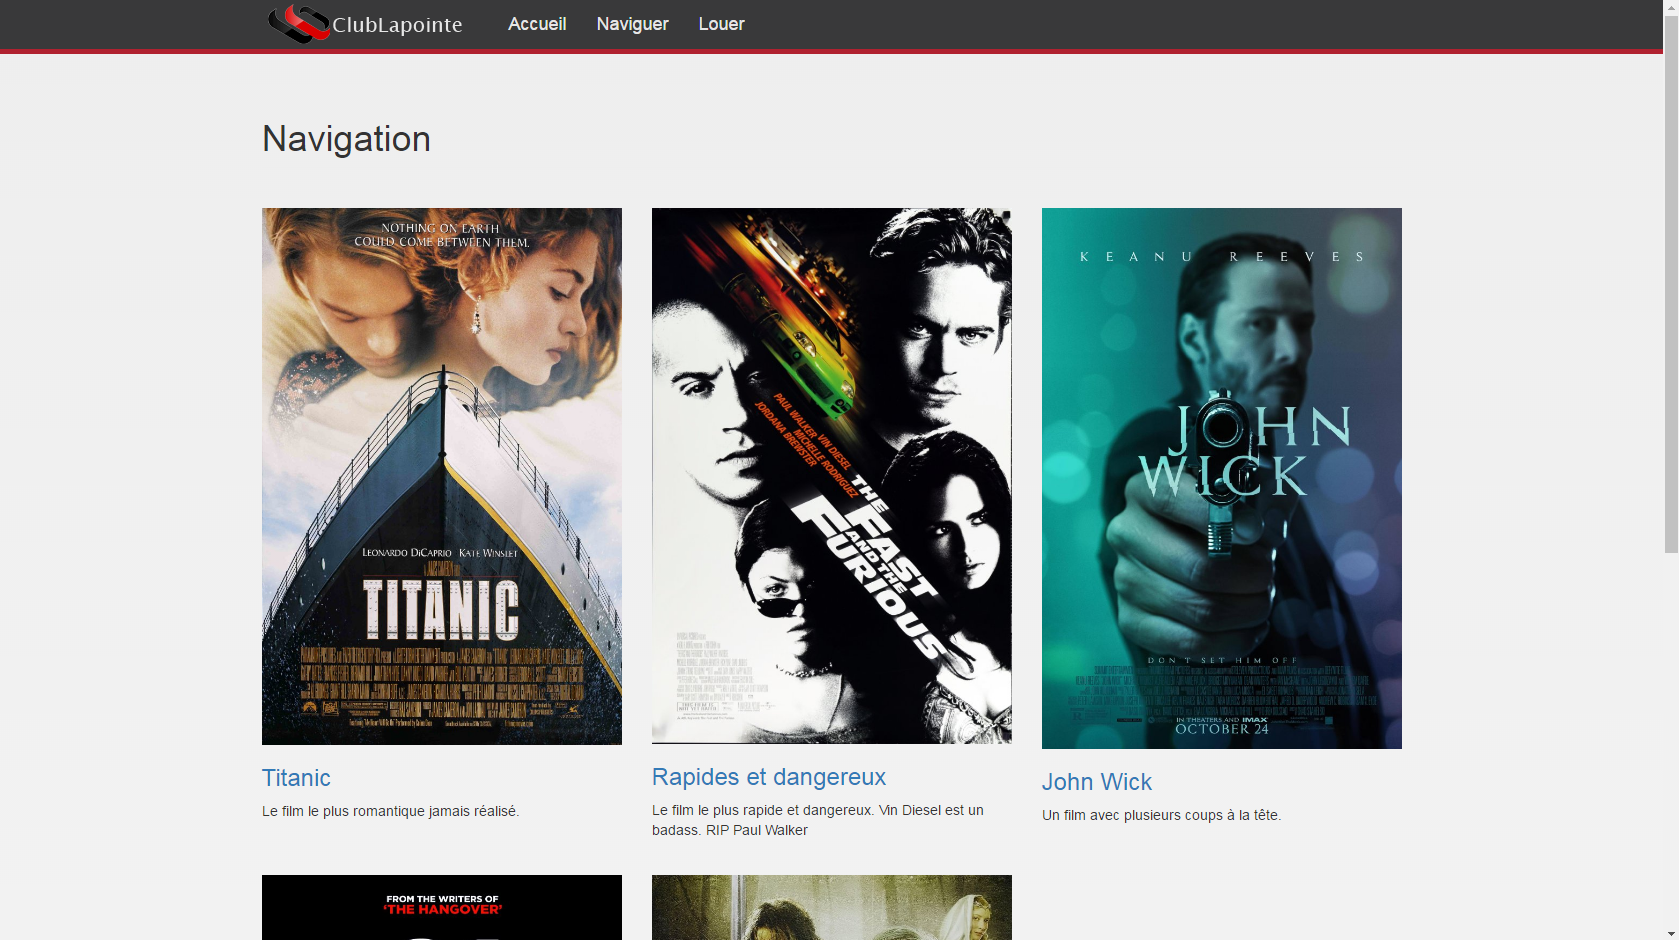
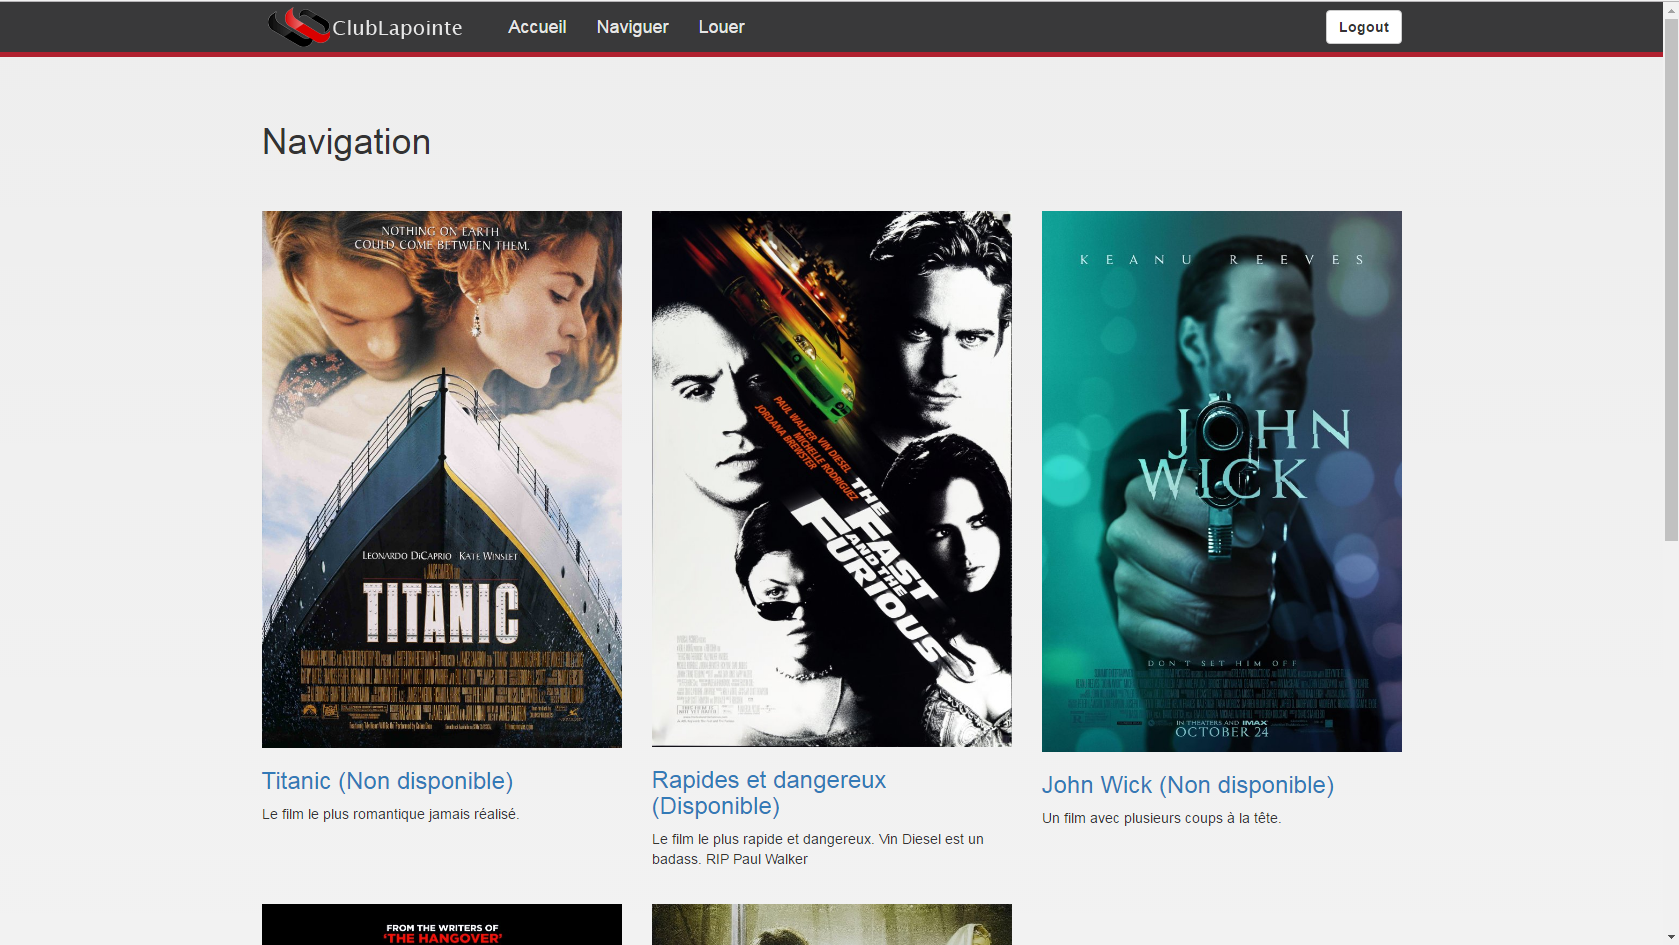
mise à jour des captures d'écrans

diff --git a/presentationLayer/navigation.php b/presentationLayer/navigation.php
@@ -41,13 +41,16 @@
 		$description = $produit->getDescription();
 		$id = $produit->getProduitID();
 		$titre = $produit->getNom();
+		$disponible = $produit->getDisponible();
+		if($disponible == "1")$disponible = "Disponible";
+		else $disponible = "Non disponible";
 			
             echo '<div class="col-md-4 portfolio-item">';
                 //echo '<a href="#">';
                     echo '<img class="img-responsive" src="ressources/images/imageFilm/film'.$id.'.jpg" alt="" width="674" height="1000">';
                 //echo '</a>';
                 echo '<h3>';
-                    echo '<a href="#">'.$titre.'</a>';
+                    echo '<a href="#">'.$titre.' ('.$disponible.')</a>';
                 echo '</h3>';
                 echo '<p>'.$description.'</p>';
             echo '</div>';
